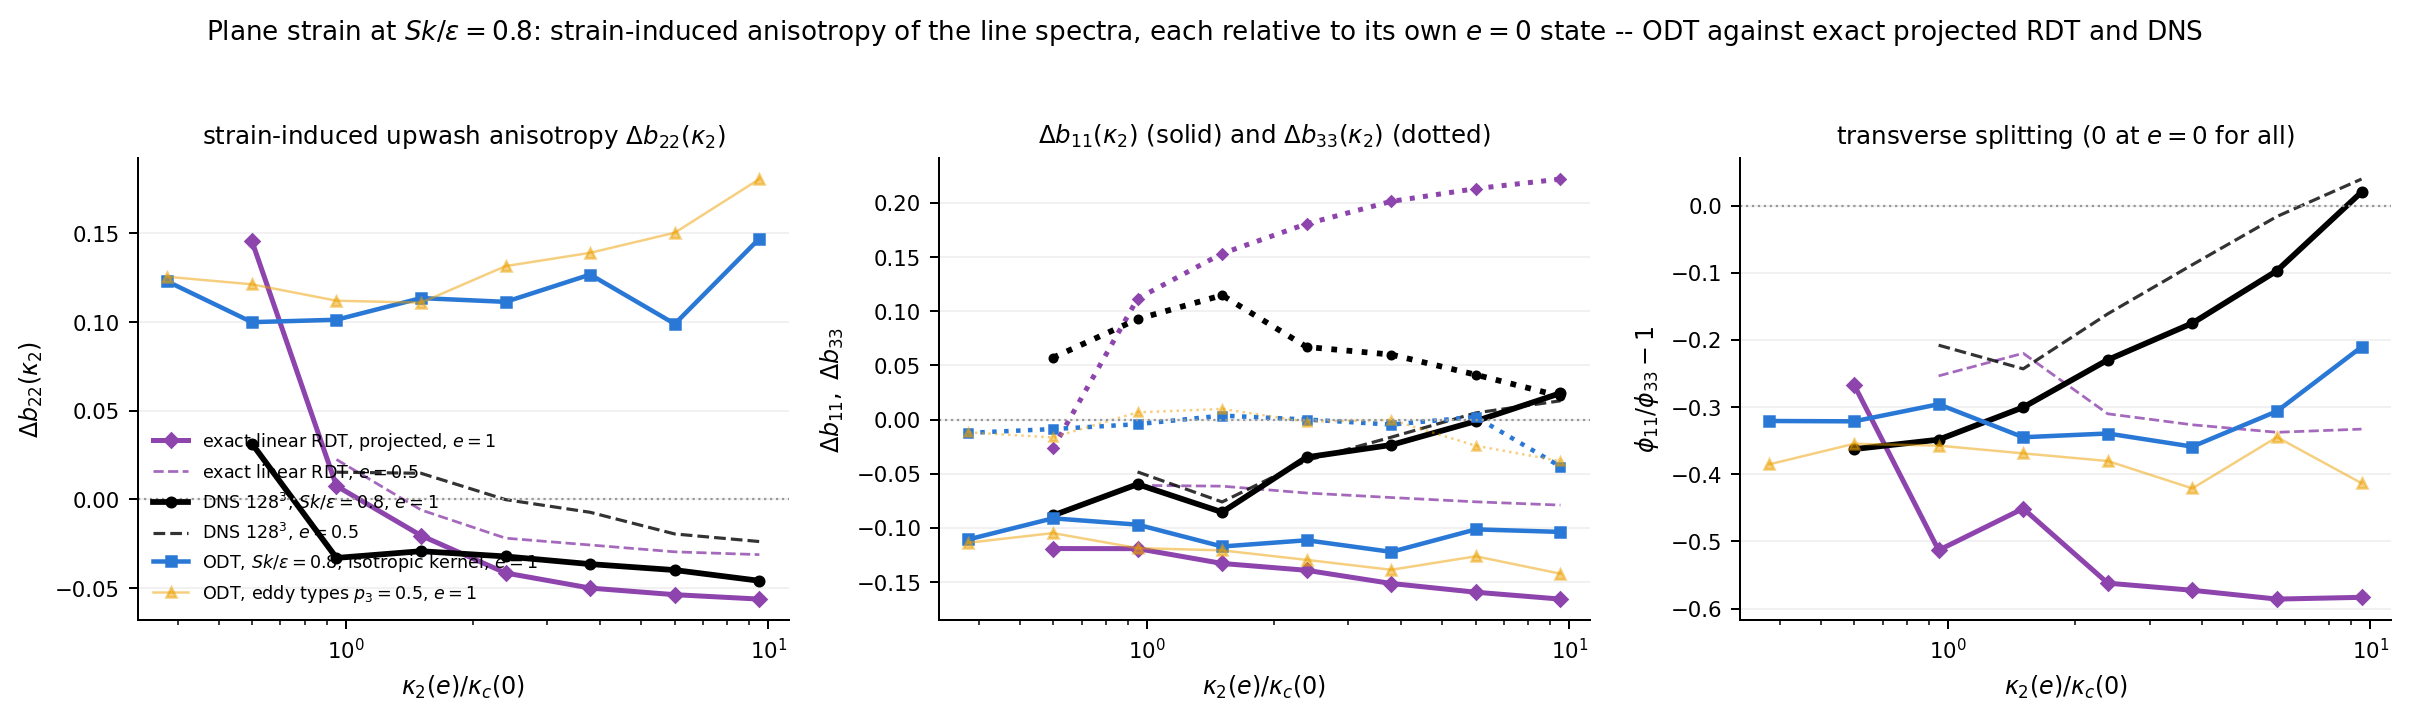
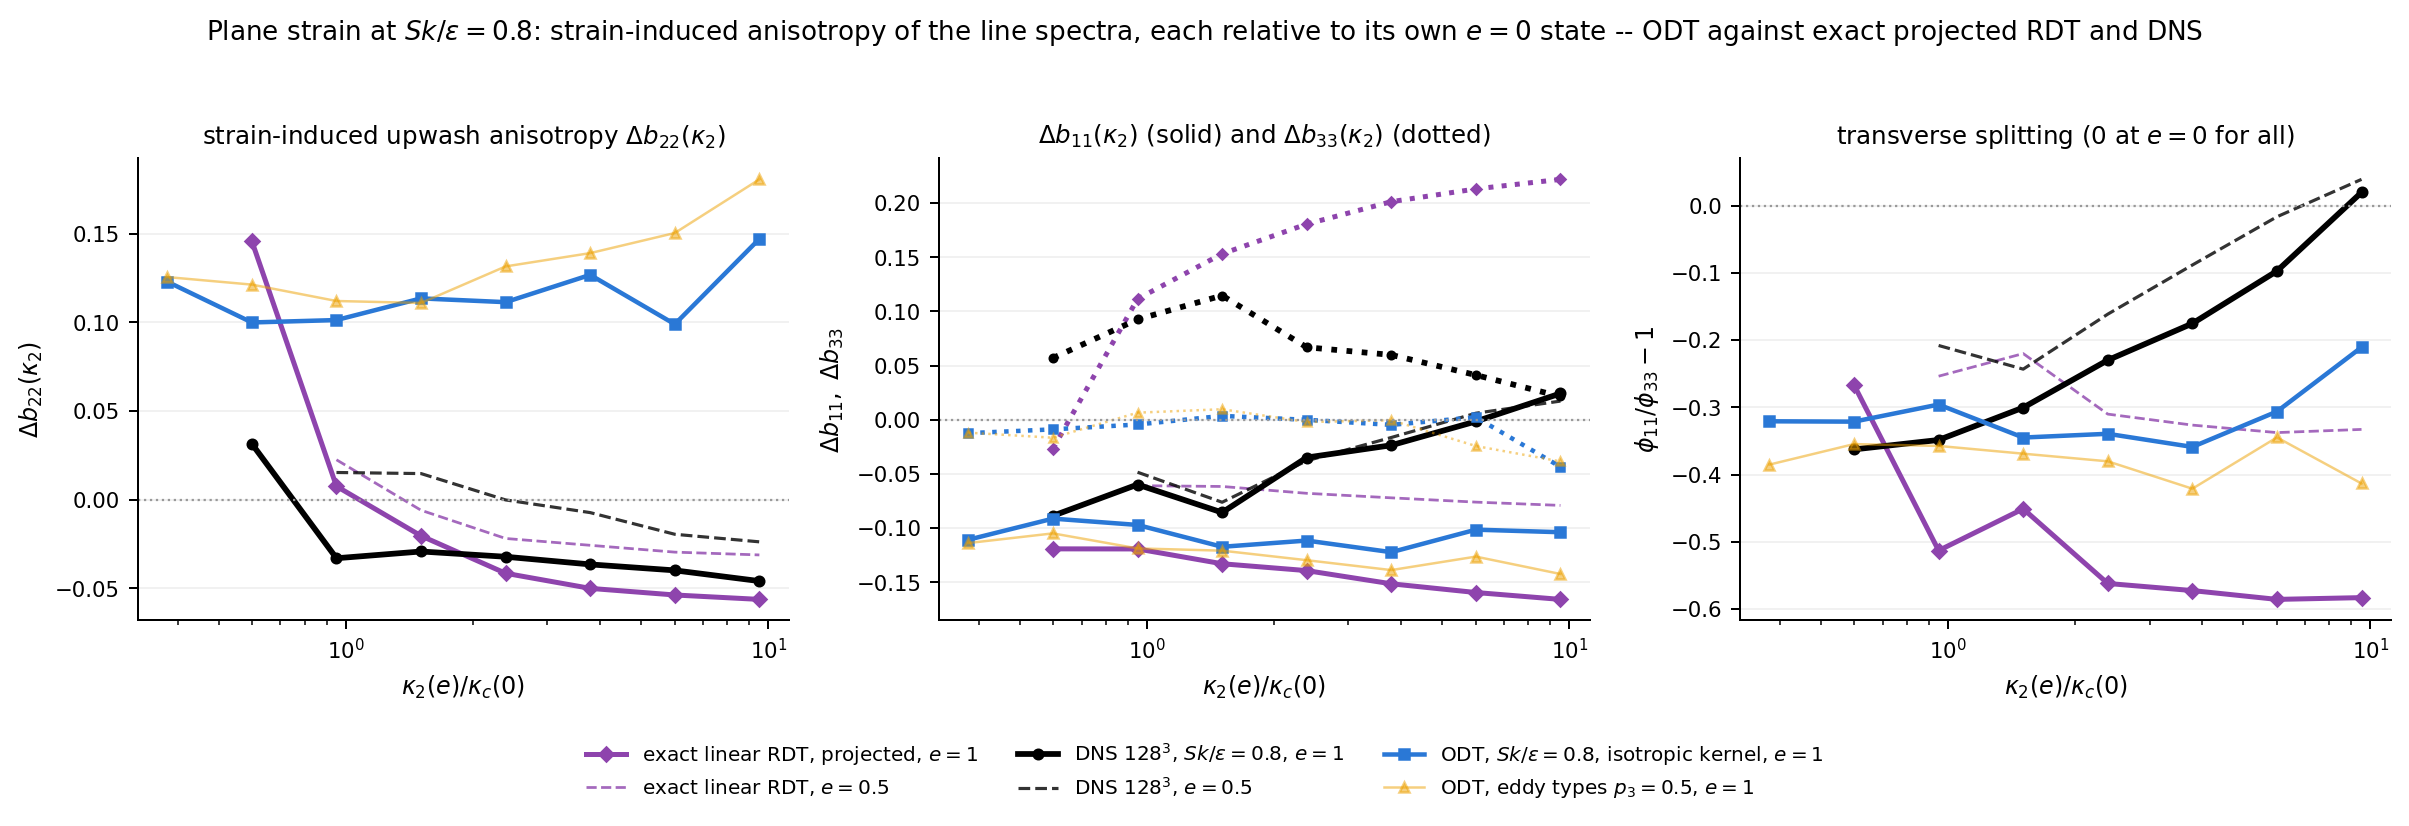
threeway figure: legend below the panels

diff --git a/post/closure_bound/strained/threeway.py b/post/closure_bound/strained/threeway.py
@@ -156,7 +156,8 @@ def main():
         ax.tick_params(labelsize=8.5)
         ax.spines[["top", "right"]].set_visible(False)
         ax.grid(axis="y", color="0.93", lw=0.6)
-    axs[0].legend(fontsize=7, frameon=False, loc="lower left")
+    h, l = axs[0].get_legend_handles_labels()
+    fig.legend(h, l, fontsize=8, frameon=False, ncol=3, loc="lower center", bbox_to_anchor=(0.5, -0.12))
     fig.suptitle(r"Plane strain at $Sk/\varepsilon=0.8$: strain-induced anisotropy of the line spectra, "
                  "each relative to its own $e{=}0$ state -- ODT against exact projected RDT and DNS",
                  fontsize=10.5, y=1.02)
